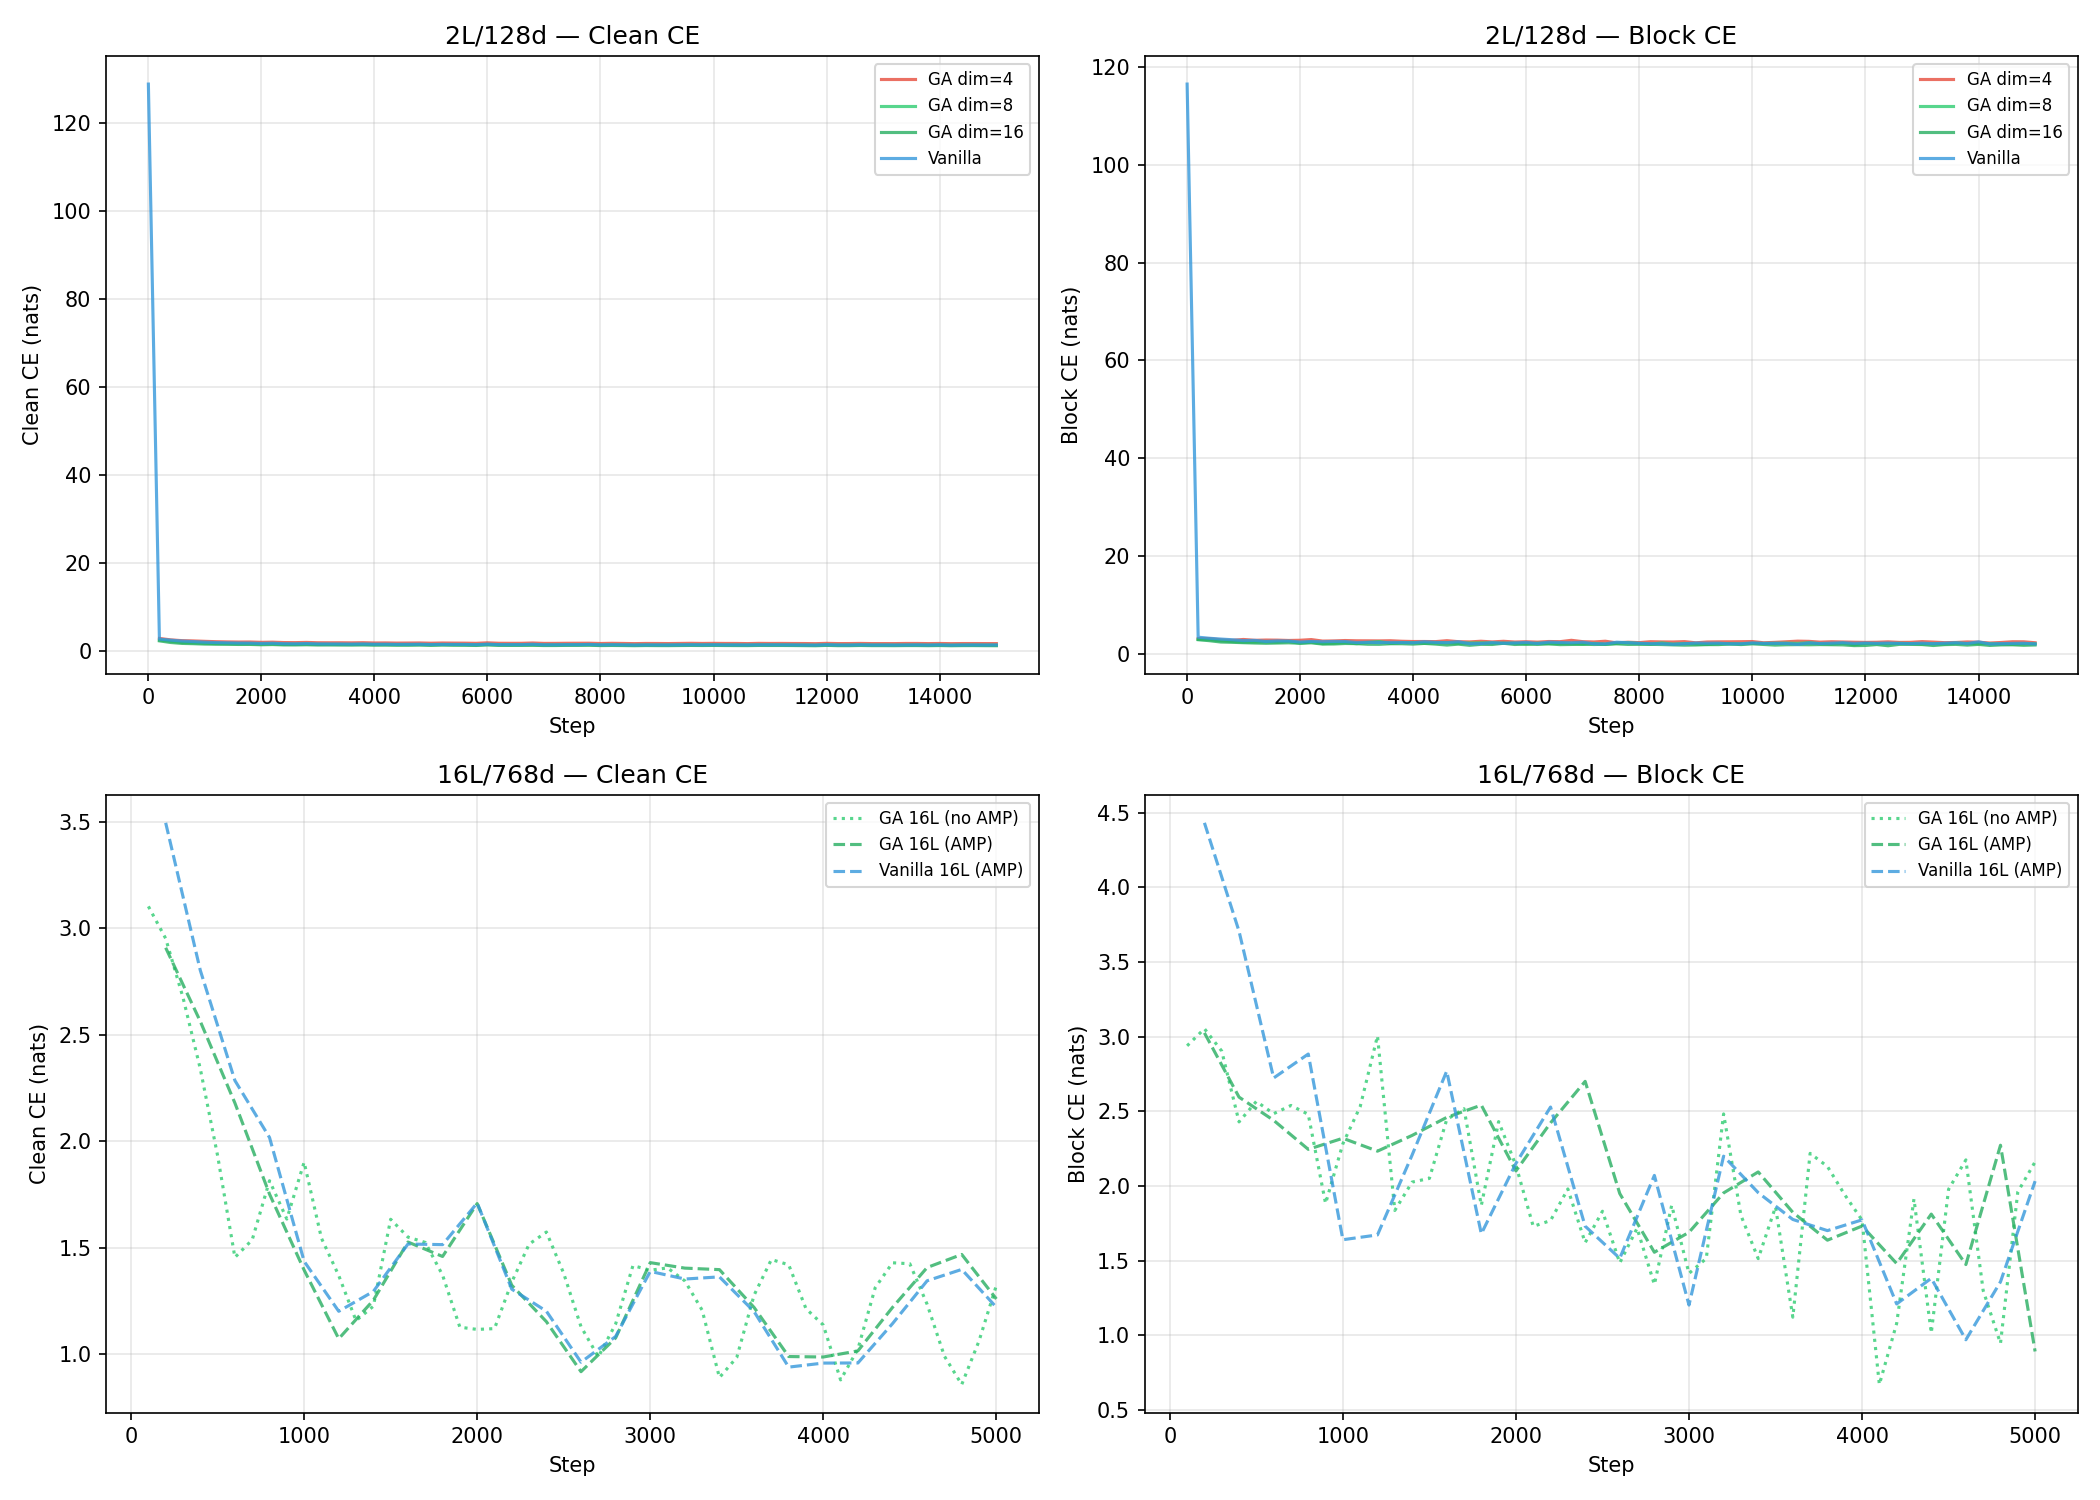
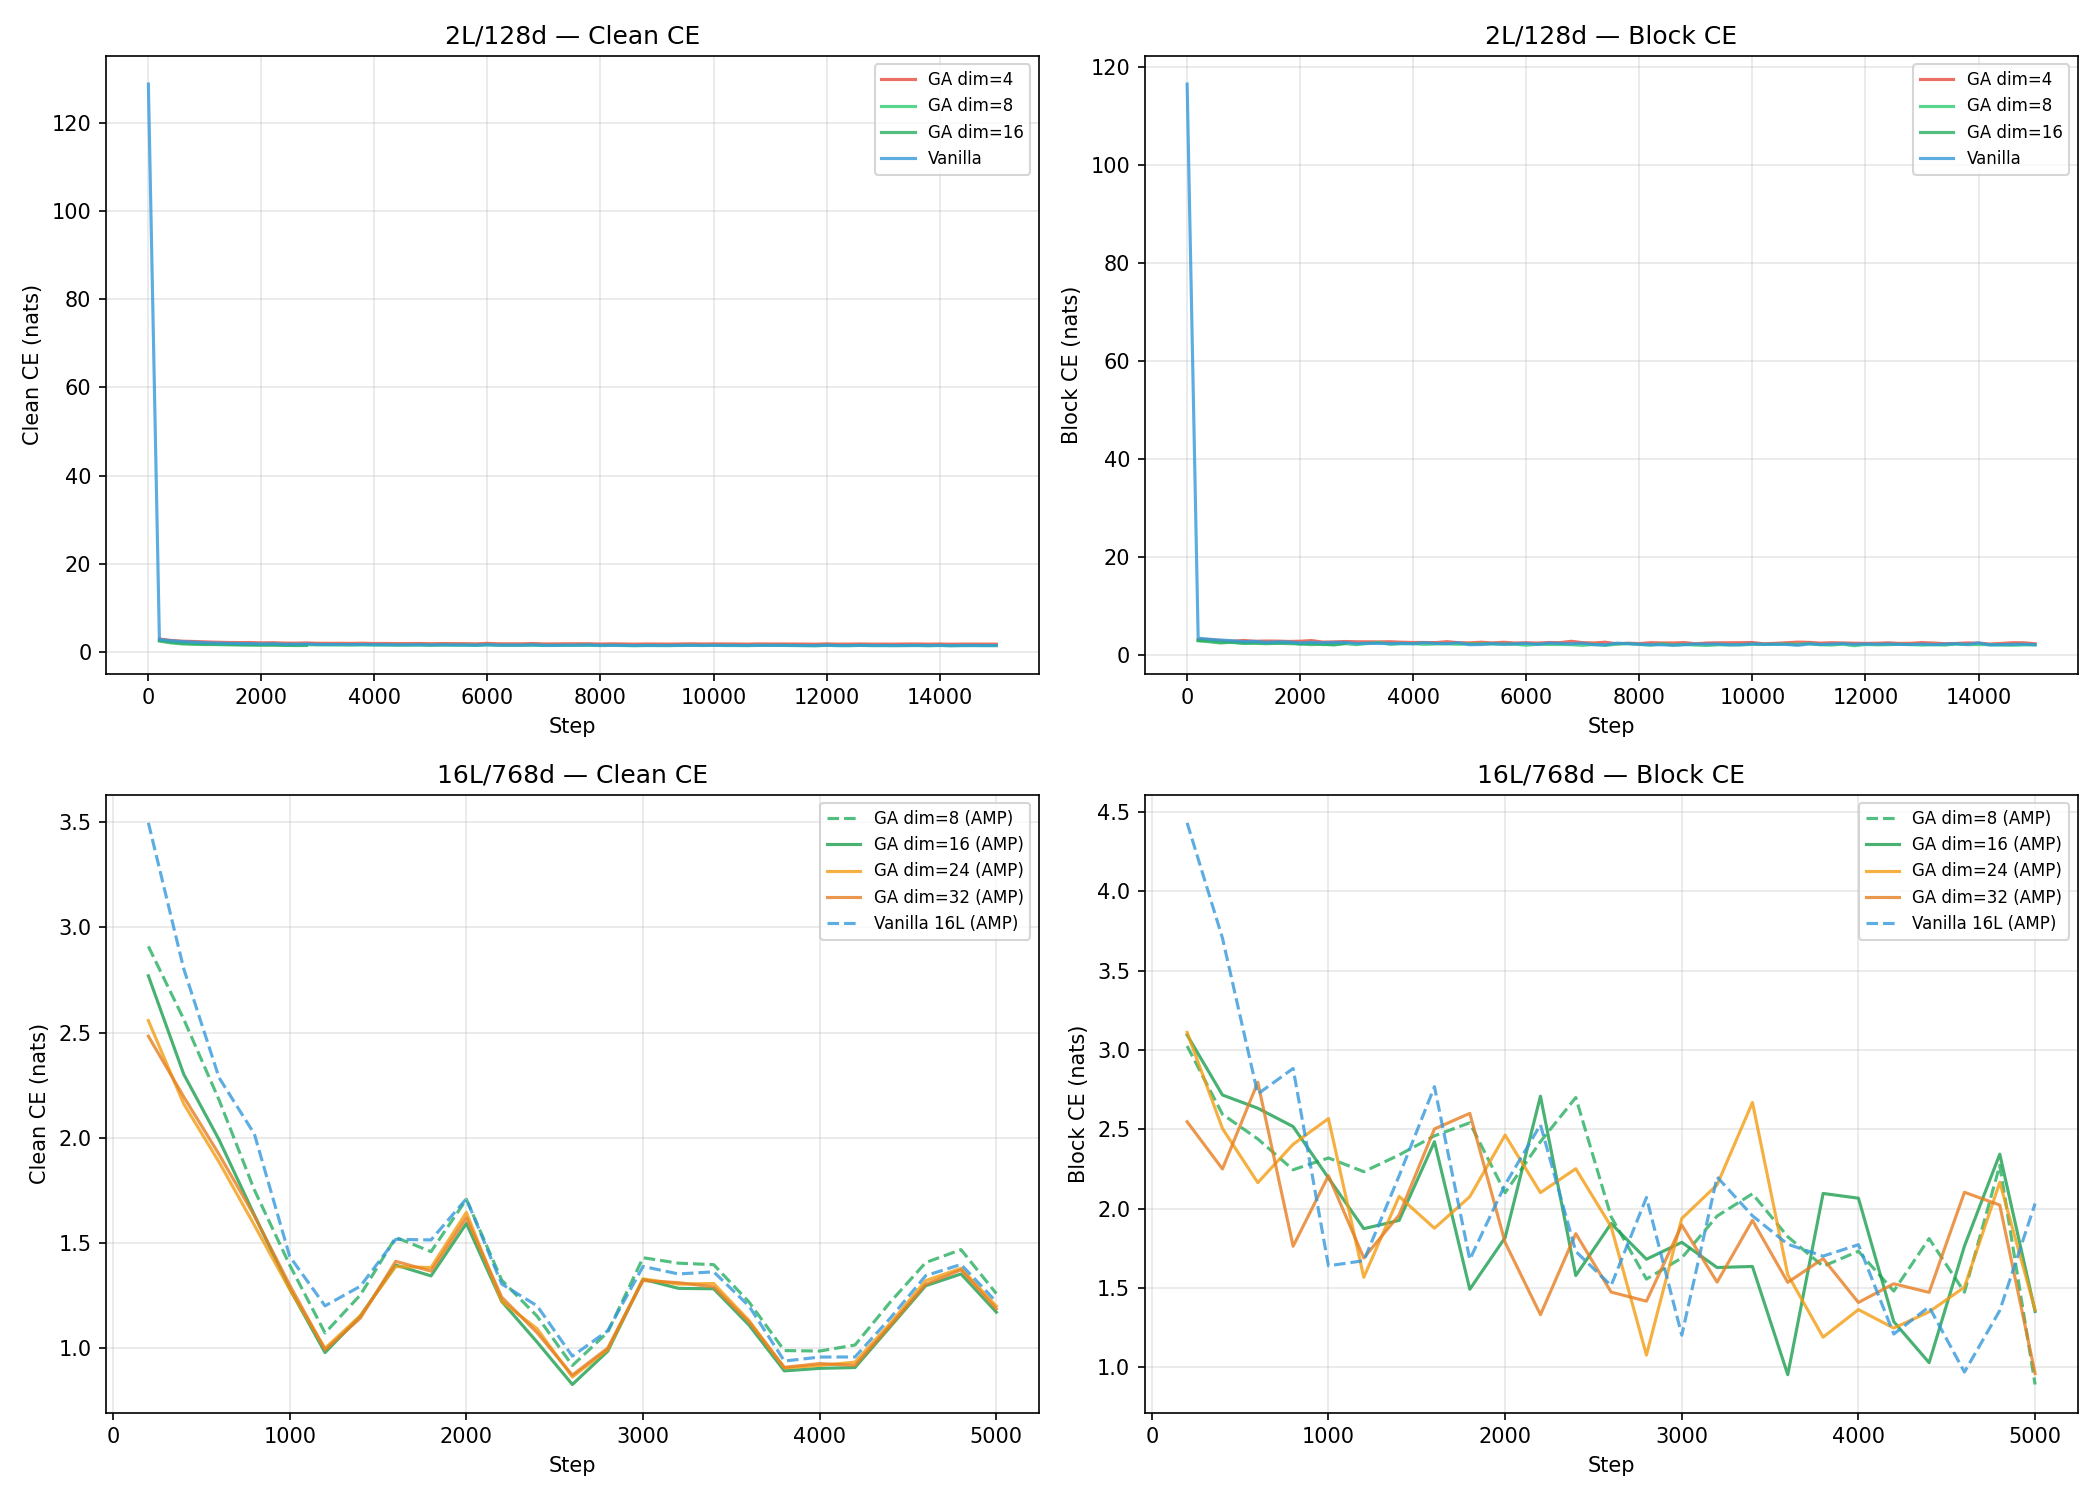
update loss comparison figure with dim=24 and dim=32 curves

diff --git a/plot_comparison.py b/plot_comparison.py
@@ -38,8 +38,10 @@ runs_2L = [
 ]
 
 runs_16L = [
-    ('GA 16L (no AMP)', '/tmp/ga_blockwise.log', '#2ecc71', ':', ''),
-    ('GA 16L (AMP)', '/home/peb/data/bbt_checkpoints/blockwise_16L_ga.log', '#27ae60', '--', ''),
+    ('GA dim=8 (AMP)', '/home/peb/data/bbt_checkpoints/blockwise_16L_ga.log', '#27ae60', '--', ''),
+    ('GA dim=16 (AMP)', '/home/peb/data/bbt_checkpoints/blockwise_16L_ga_dim16.log', '#1b9e4e', '-', ''),
+    ('GA dim=24 (AMP)', '/home/peb/data/bbt_checkpoints/blockwise_16L_ga_dim24.log', '#f39c12', '-', ''),
+    ('GA dim=32 (AMP)', '/home/peb/data/bbt_checkpoints/blockwise_16L_ga_dim32.log', '#e67e22', '-', ''),
     ('Vanilla 16L (AMP)', '/home/peb/data/bbt_checkpoints/blockwise_16L_vanilla.log', '#3498db', '--', ''),
 ]
 
@@ -94,8 +96,8 @@ ax.set_xlabel('Step'); ax.set_ylabel('Block CE (nats)')
 ax.legend(fontsize=8); ax.grid(alpha=0.3)
 
 plt.tight_layout()
-plt.savefig('/home/peb/data/bbt_checkpoints/loss_comparison.png', dpi=150)
-print("Saved loss_comparison.png")
+plt.savefig('/home/peb/code/bbt/figures/loss_comparison.png', dpi=150)
+print("Saved loss_comparison.png to figures/")
 
 # ── Also print a summary table ──────────────────────────────────────────────
 print("\n" + "="*80)